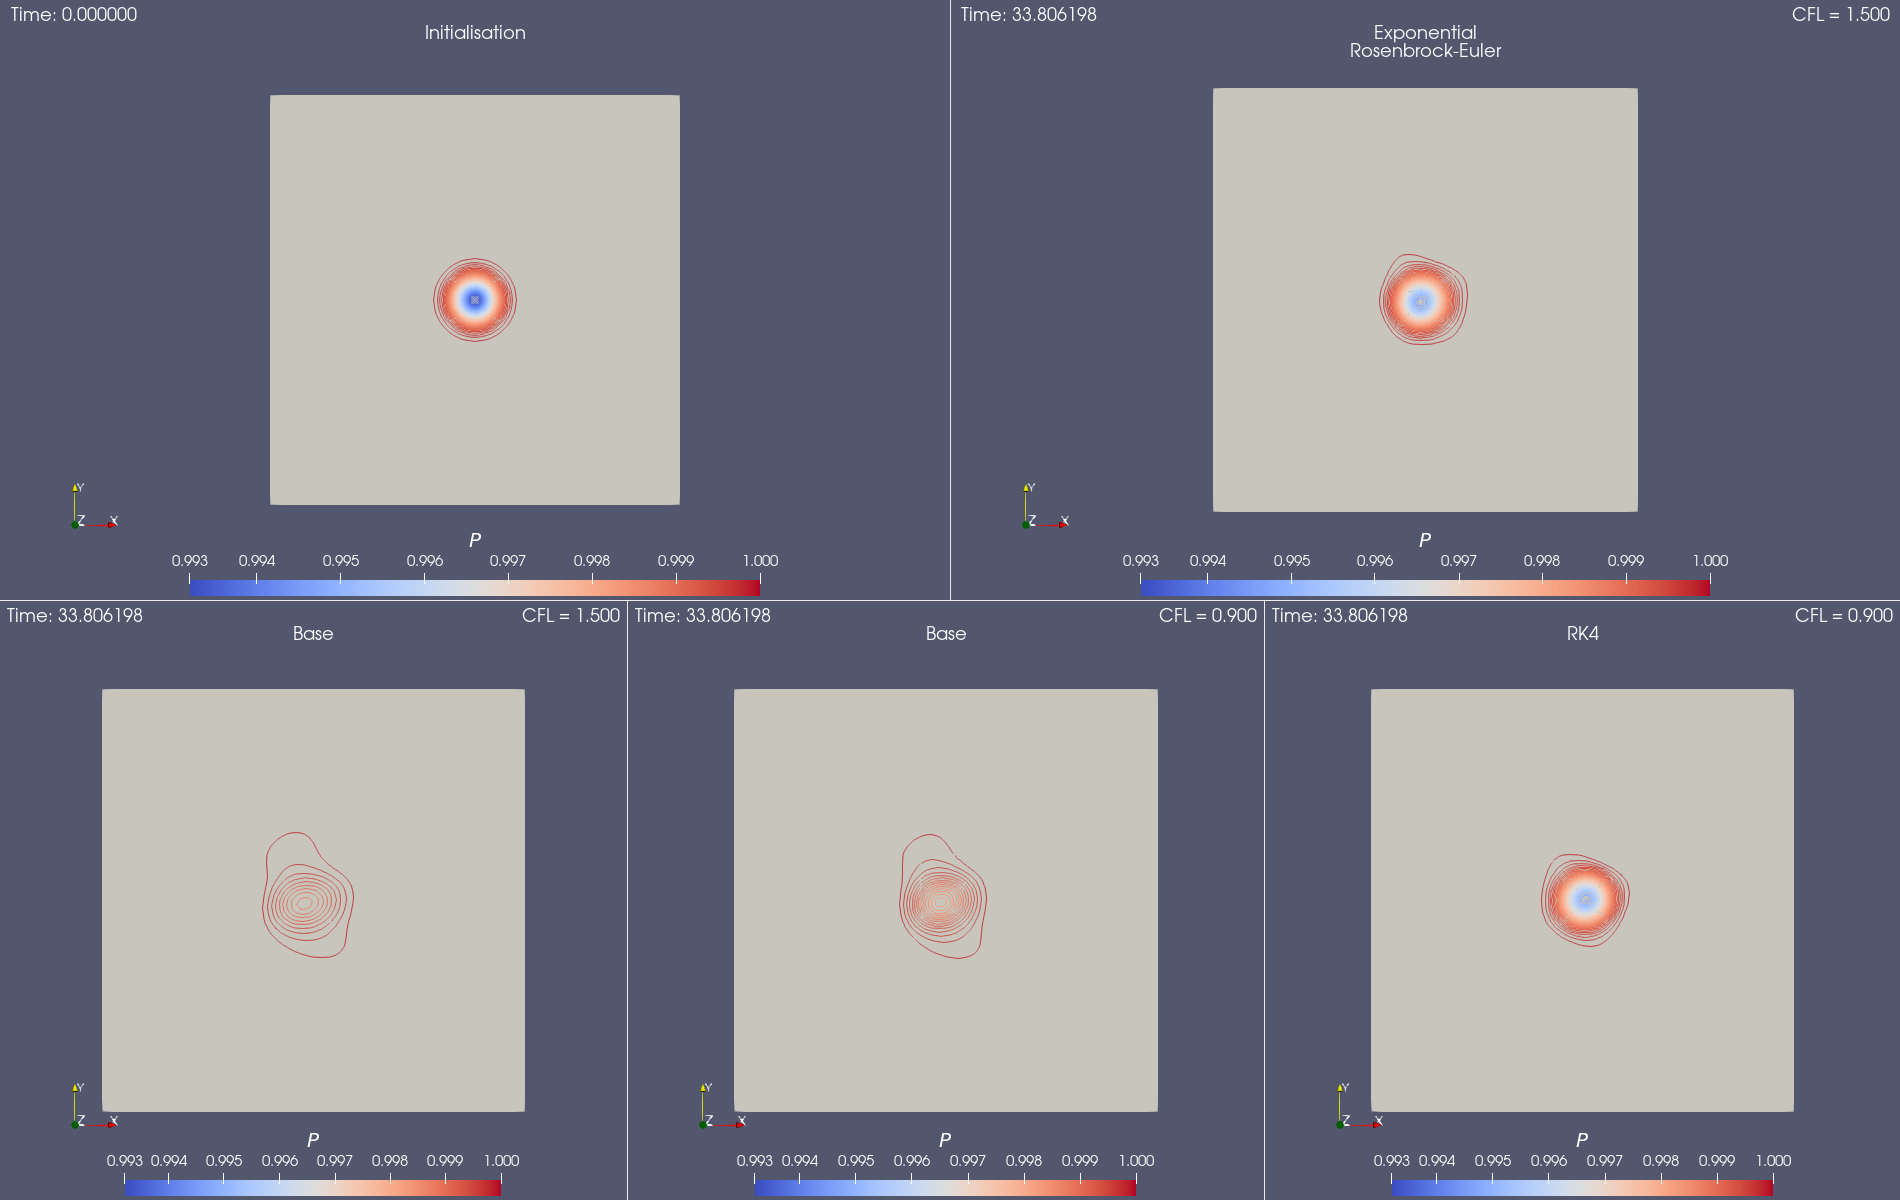
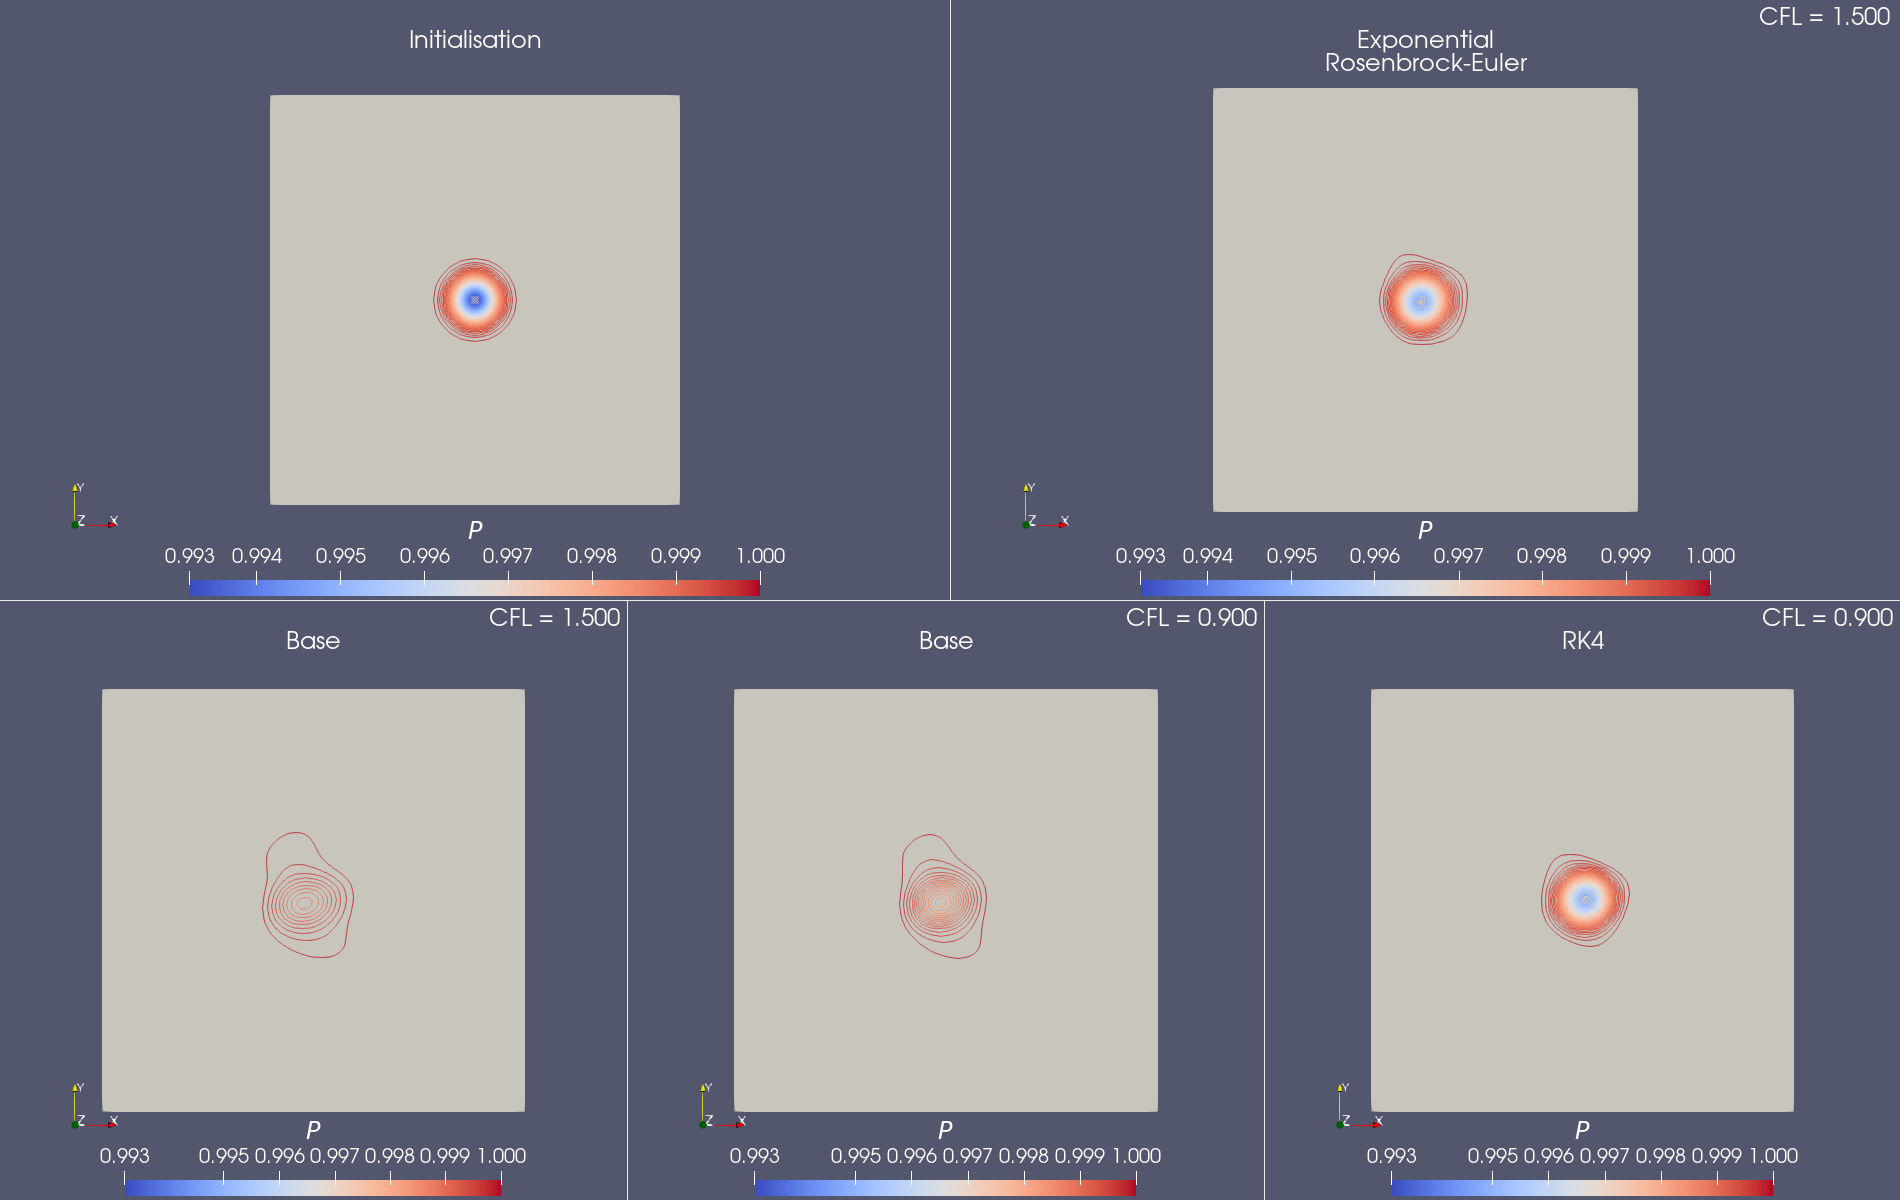
Hide time in covo cedre fields

diff --git a/figures/figures_paraview.py b/figures/figures_paraview.py
@@ -146,7 +146,7 @@ def covo_cedre_mesh():
 def covo_cedre_fields():
     plotter = pvlib.COVOPlotter()
     plotter.register_plot("/visu/pseize/COVO/BASE/RUN_1/_ENSIGHT_/archive_CHARME.volu.ins.case", 'P', contour=50,
-                          time=True, r_gas=1, label='\nBase')
+                          r_gas=1, label='\nBase')
 
     view1 = plotter.create_view(pvs.CreateRenderView)
     for k, s in pvs.GetSources().items():
@@ -154,7 +154,6 @@ def covo_cedre_fields():
             force_time = pvs.ForceTime(s, ForcedTime=0)
             display = pvs.Show(force_time, view1)
             display.SetScalarBarVisibility(view1, True)
-            plotter.annotate_time(force_time, view1, True, False)
             text = pvs.Text(Text='\nInitialisation')
             pvs.Show(text, view1, 'TextSourceRepresentation', WindowLocation='Upper Center', Interactivity=0)
         elif 'EnSightReader' in k[0]:
@@ -163,11 +162,11 @@ def covo_cedre_fields():
             pvs.Show(s, view1)
 
     plotter.register_plot("/visu/pseize/COVO/BASE/RUN_2/_ENSIGHT_/archive_CHARME.volu.ins.case", 'P', contour=50,
-                          time=True, r_gas=1, label='\nBase')
+                          r_gas=1, label='\nBase')
     plotter.register_plot("/visu/pseize/COVO/EXP/RUN_1/_ENSIGHT_/archive_CHARME.volu.ins.case", 'P', contour=50,
-                          time=True, r_gas=1, label='\nExponential\nRosenbrock-Euler')
+                          r_gas=1, label='\nExponential\nRosenbrock-Euler')
     plotter.register_plot("/visu/pseize/COVO/BASE/RUN_RK4/_ENSIGHT_/archive_CHARME.volu.ins.case", 'P', contour=50,
-                          time=True, r_gas=1, label='\nRK4')
+                          r_gas=1, label='\nRK4')
 
     view2 = plotter.get_views("/visu/pseize/COVO/EXP/RUN_1/_ENSIGHT_/archive_CHARME.volu.ins.case")[0]
     view3 = plotter.get_views("/visu/pseize/COVO/BASE/RUN_1/_ENSIGHT_/archive_CHARME.volu.ins.case")[0]
@@ -192,14 +191,18 @@ def covo_cedre_fields():
         color_bar.Title = r'$P$'
         color_bar.ComponentTitle = ''
         color_bar.Orientation = 'Horizontal'
-        color_bar.TitleFontSize = 20
-        color_bar.LabelFontSize = 15
+        color_bar.TitleFontSize = 24
+        color_bar.LabelFontSize = 20
         color_bar.ScalarBarLength = 0.6
         color_bar.RangeLabelFormat = '%.3f'
         view.CameraPosition = [0.5, 0, 1]
         view.CameraFocalPoint = [0.5, 0, 0]
         view.CameraParallelScale = 1
         view.ResetCamera()
+
+    for k, s in pvs.GetRepresentations().items():
+        if 'TextSourceRepresentation' in k[0]:
+            s.FontSize = 24
 
     plotter.draw(0, block=False)
     pvs.SaveScreenshot("covo_cedre_fields.png", layout)
